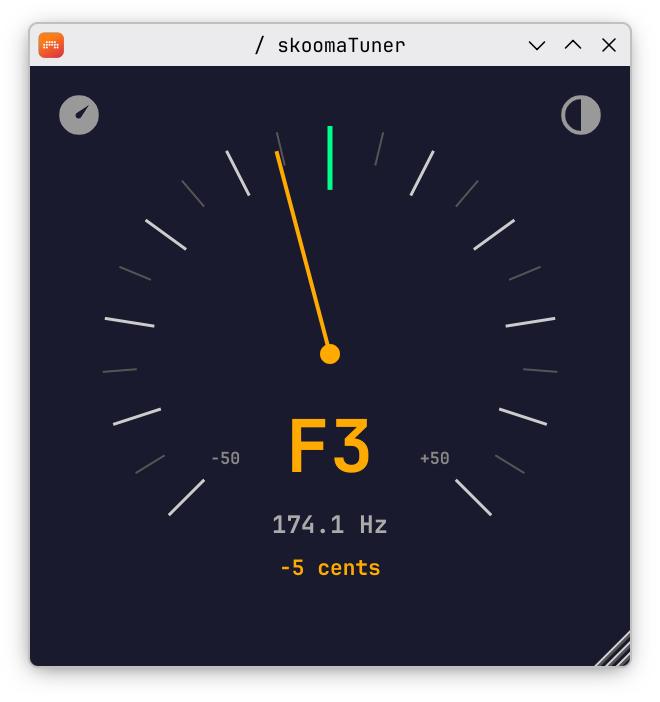
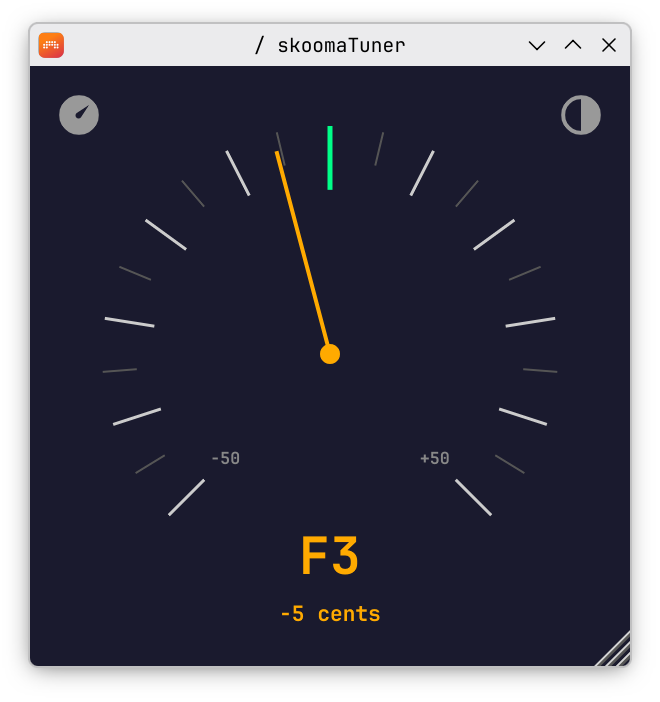
1.0.4: unify text-band layout, drop Hz line
Note + cents on the shared two-row text band (main 0.76·w, secondary
0.89·w) so the readout lines up with Loud and Image. Also bridges the
shared FetchContent cache.

diff --git a/Source/PluginEditor.cpp b/Source/PluginEditor.cpp
@@ -289,32 +289,26 @@ void SkoomaTunerEditor::paint(juce::Graphics& g)
     drawIcon(g, iconTheme.get(), themeRect.reduced(iconSize * 0.2f), t.toggleIcon);
 
     // --- Text displays (only when signal present) ---
+    // Unified text band across Tuner/Loud/Image: main at 0.76w, secondary at 0.89w,
+    // placed below the arc endpoints (y ≈ 0.75w) so the needle sweep can't overlap.
     if (displayFreq > 0.0f)
     {
-        float noteY = cy + 20.0f * scale;
-        float noteH = 48.0f * scale;
+        const float mainH  = 34.0f * scale;
+        const float mainY  = 0.76f * w;
+        const float labelH = 14.0f * scale;
+        const float labelY = 0.89f * w;
 
         g.setColour(tuneColour);
-        g.setFont(monoFont.withHeight(noteH));
+        g.setFont(monoFont.withHeight(mainH));
         juce::String noteStr = juce::String(noteNames[displayNoteIndex]) + juce::String(displayOctave);
-        g.drawText(noteStr, juce::Rectangle<float>(0, noteY, w, noteH * 1.1f),
+        g.drawText(noteStr, juce::Rectangle<float>(0, mainY, w, mainH),
                    juce::Justification::centred, false);
 
-        float freqY = noteY + noteH * 1.15f;
-        float freqH = 16.0f * scale;
-        g.setColour(t.valueText);
-        g.setFont(monoFont.withHeight(freqH));
-        g.drawText(juce::String(displayFreq, 1) + " Hz",
-                   juce::Rectangle<float>(0, freqY, w, freqH * 1.3f),
-                   juce::Justification::centred, false);
-
-        float centsY = freqY + freqH * 1.4f;
-        float centsH = 14.0f * scale;
         int centsInt = static_cast<int>(std::round(displayCents));
         g.setColour(tuneColour);
-        g.setFont(monoFont.withHeight(centsH));
+        g.setFont(monoFont.withHeight(labelH));
         g.drawText((centsInt >= 0 ? "+" : "") + juce::String(centsInt) + " cents",
-                   juce::Rectangle<float>(0, centsY, w, centsH * 1.3f),
+                   juce::Rectangle<float>(0, labelY, w, labelH),
                    juce::Justification::centred, false);
     }
 }

diff --git a/README.md b/README.md
@@ -7,7 +7,7 @@
 <td><img src="screenshots/light-theme-strobe.png" width="200"></td>
 </tr></table>
 
-Needle and strobe modes, dark and light themes. Spring-damped needle physics.
+Needle and strobe modes, with note name + cents offset readout. Dark and light themes. Spring-damped needle physics.
 
 Part of a series of small, minimal VST3 plugins:
 - [skoomaLoud](https://github.com/skoomabwoy/skoomaLoud) (loudness meter)
